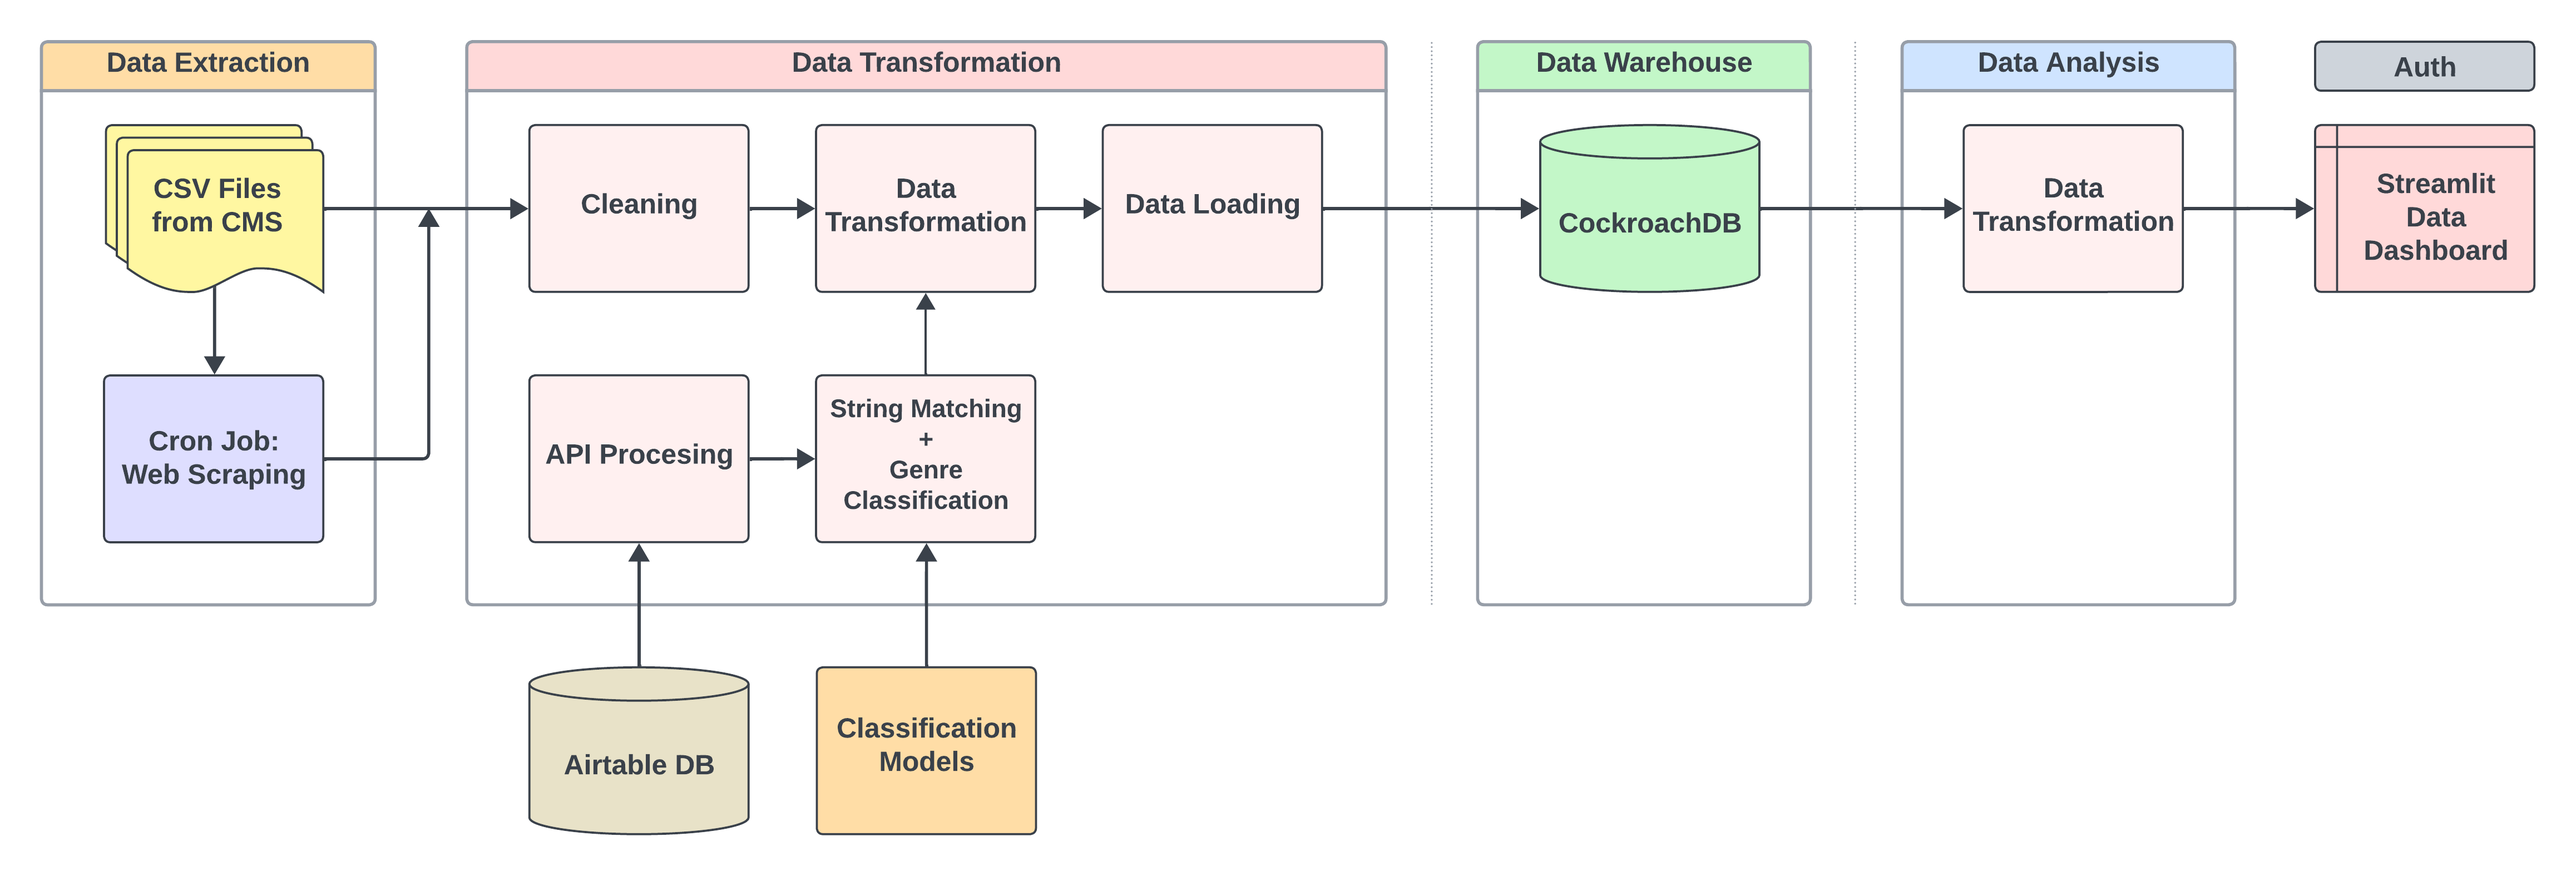
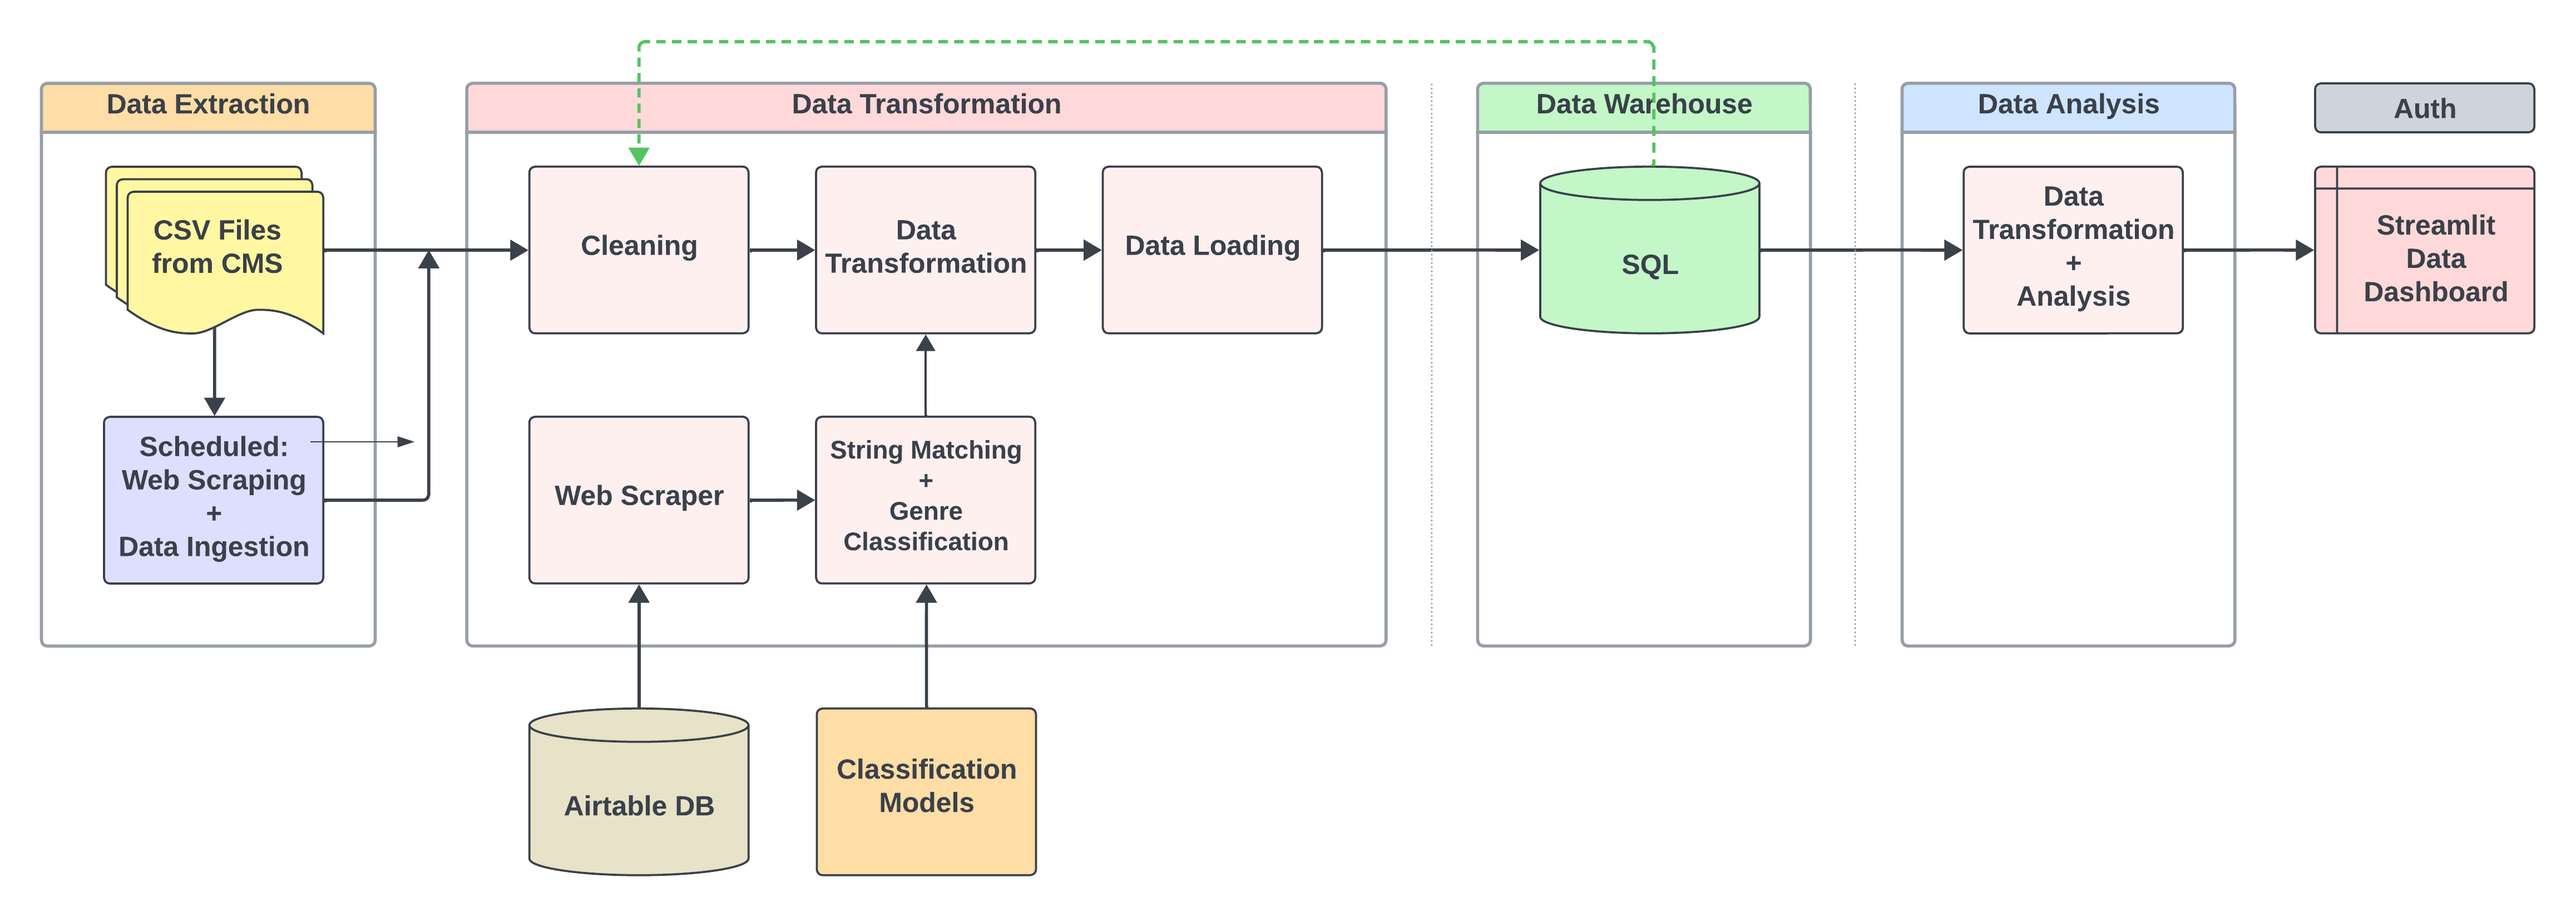
update readme

diff --git a/README.md b/README.md
@@ -1,5 +1,5 @@
 # Stat Tracking System Documentation
-High-level overview of [team stat tracking system](https://github.com/kchenTTP/team_stat_tracking.git).
+System overview of [team stat tracking system](https://github.com/kchenTTP/team_stat_tracking.git).
 
 
 ---
@@ -8,53 +8,56 @@ High-level overview of [team stat tracking system](https://github.com/kchenTTP/t
 
 
 ### **Data Extraction**
-- Download monthly system wide event data from online content management system (CSM)
+- Download monthly system wide event data from online content management system (CMS)
   - Manually download csv files
-  - Or, periodically scrape csv files (cron jobs)[^1]
+  - *Future update: schedule monthly data scraping after internal CMS update stats for previous month (Prefect)* [^1]
 
 
 ### **Data Transformation Pipeline**
-#### *Data Cleaning (Pandas)*
-- Drop unused columns
-- Fix incorrect datatypes
-- Drop duplicated rows
-- Handle CMS data exporting errors
+- *Future update: schedule monthly data transformation & database writing & back-up after monthly data has been scraped*
+#### *Data Cleaning*
+- Data scrubbing
+- Fix incorrect datatype
+- Error Handling
+  - Fix CMS data exporting errors
+  - Compare warehouse data to handle naming error
 - Data imputation
+- Handle edge cases
 
-#### *Airtable Data Extraction (Airtable API)*
-- Extract class information from Airtable database
+#### *Airtable Data Extraction*
+- Scrape class information from internal Airtable database due to API limitations
+- *Future update: store airtable data in warehouse + scheduled scraping to automate class name adjustments*
 
-#### *String Matching & Genre Classification*
-- Match class title strings from CMS data to Airtable data[^2]
-- Class genre classification[^3]
+#### *Future update: String Matching & Genre Classification*
+- Match class title strings from CMS data to Airtable data to ensure data integrity[^2]
+- *Future update: add additional column that specifies the category/genre of each class and categorize CMS data to support more detailed analysis in the future* [^3]
 
 #### *Data Transformation*
 - Add columns for additional information missing from CMS data
 
-#### *Data Loading (CockroachDB PostgreSQL)*
-- Load processed data and additional supporting data into CockroachDB (star schema model)
+#### *Data Loading*
+- Save processed data and additional supporting data into SQL data warehouse
 
 
 ### **Data Warehouse**
-- CockroachDB (PostgreSQL)
+- SQL database (star schema model) updated monthly whenever CMS gets all information from team
 
 
 ### **Data Analysis Pipeline**
-#### *Data Transformation (Pandas, Matplotlib)*
-- Connect to CockroachDB
-- Aggregate data
-- Plot charts
+#### *Data Transformation + Analysis*
+- Aggregate, filter, analyze stats from SQL database
+- plot charts for dashboard to support analysis
 
-#### *Dashboard (Streamlit)*
+#### *Dashboard*
 - Streamlit interactive dashboard
-- Authentication layer to limit access to team members
-- Generate data reports[^4]
+- *Future update: Authentication layer to limit access to team members*
+- *Future update: Generate data reports*[^4]
 
 
 ---
 
 ## *Future Features*
-[^1]: Due to CMS API not being available, web scraping is required
-[^2]: String matching with fuzzy match or KNN
-[^3]: Classify each class to their own genre with KNN & decision trees
-[^4]: Generate Excel or pdf reports
+[^1]: Due to internal system using multiple versions of CMS (Drupal), the API is unreliable. Web scraping is required to retrieve system data\
+[^2]: String matching with fuzzy match, KNN, or other matching algorithm\
+[^3]: Classify each class to their own genre with KNN, decision trees, or other multi-class classification algorithms to support more detailed analysis in the future\
+[^4]: Generate Excel or pdf reports of data dashboard
